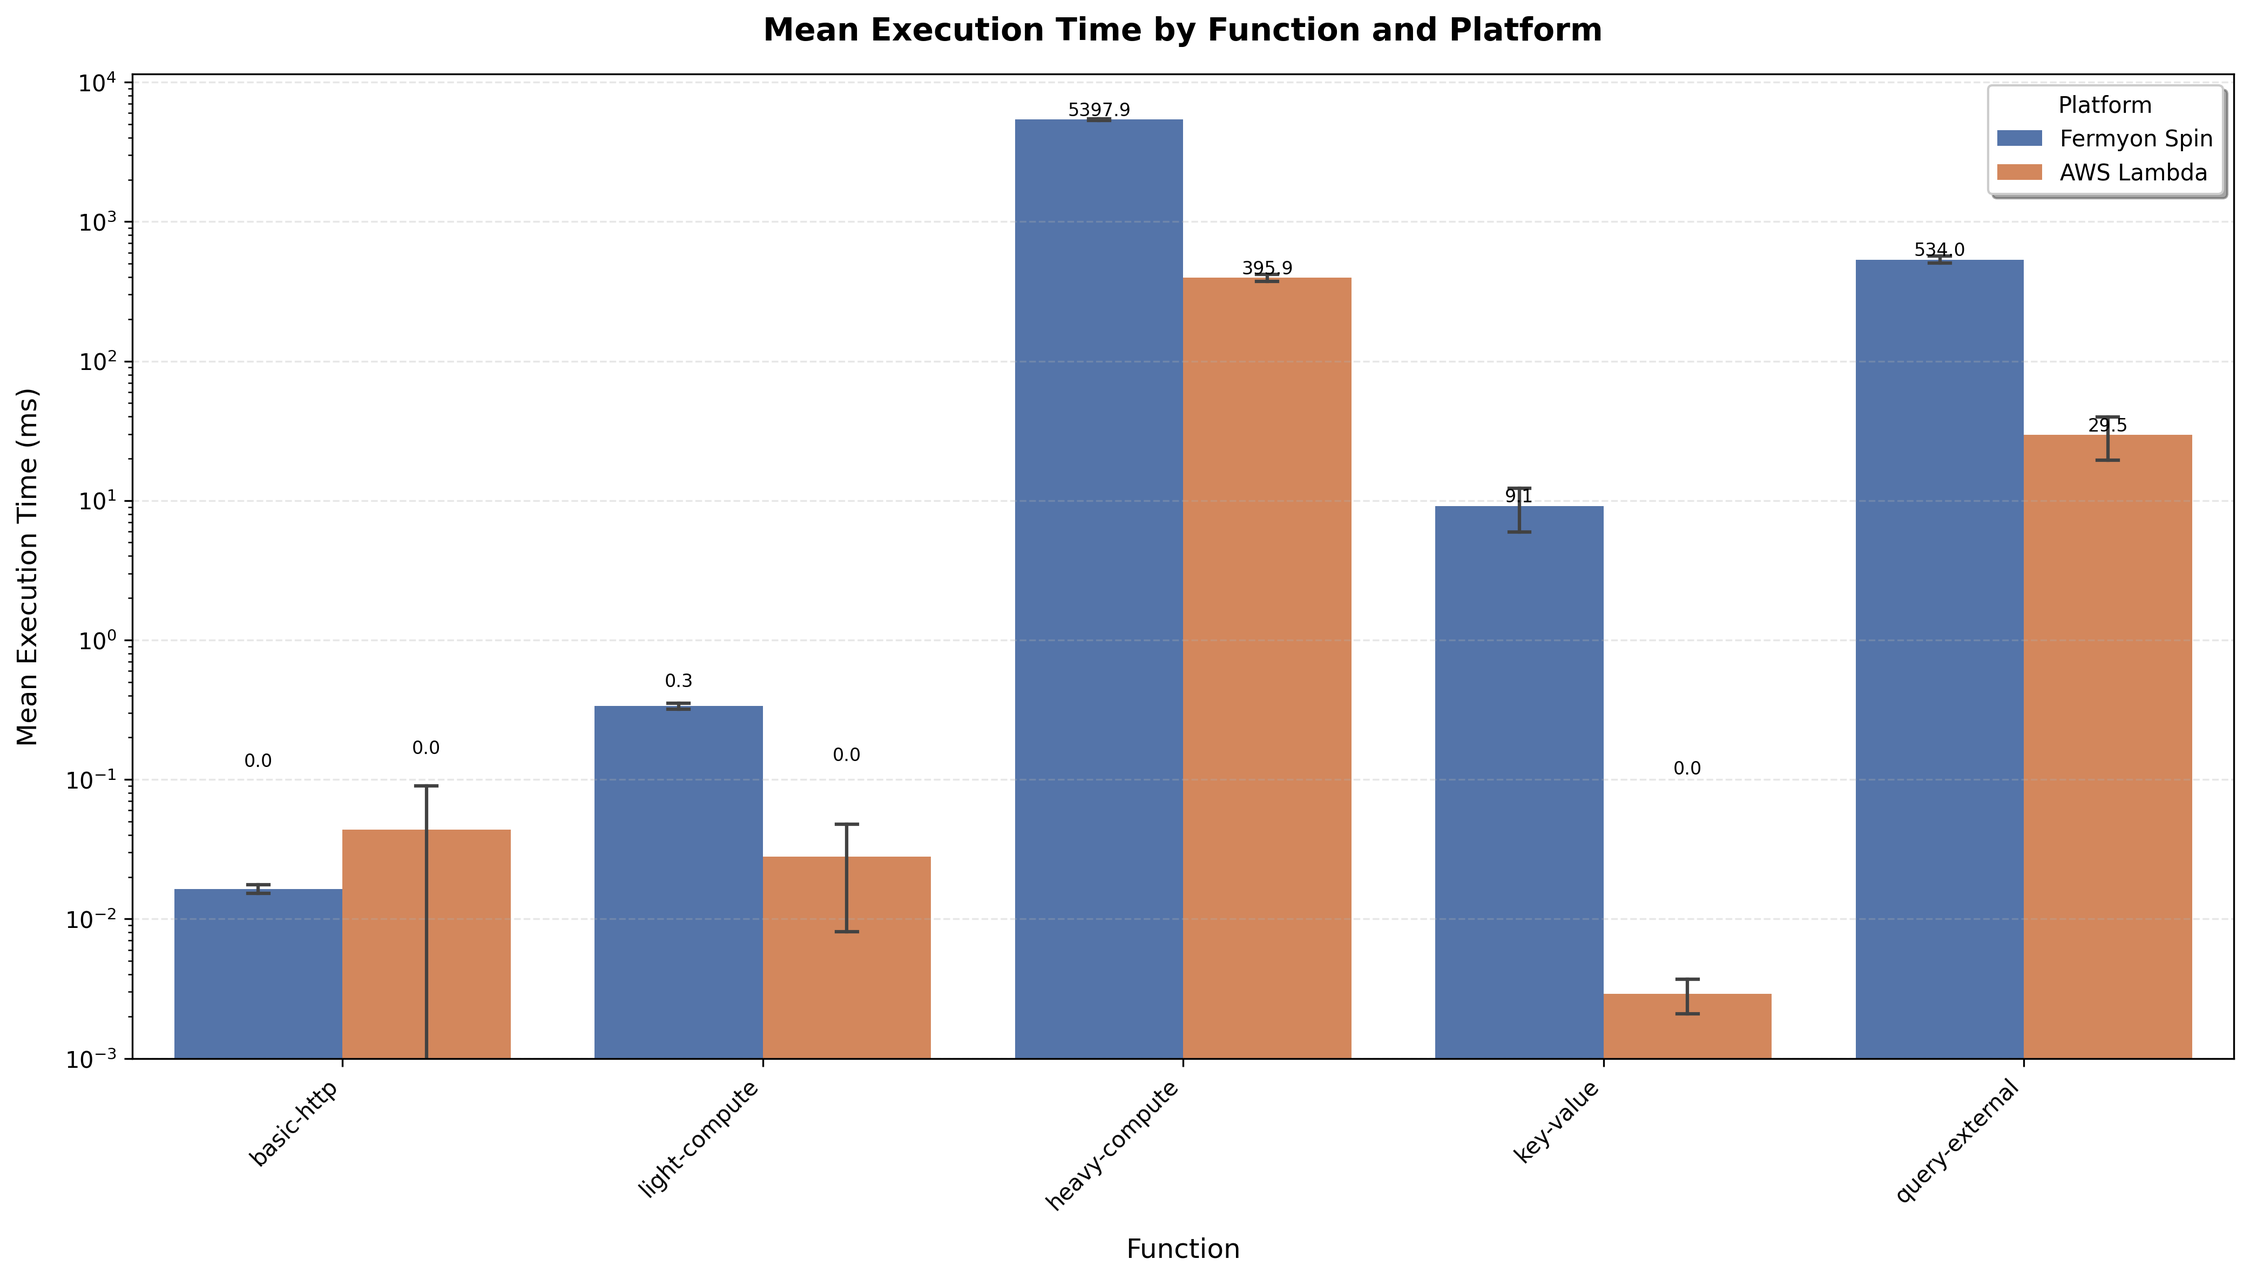
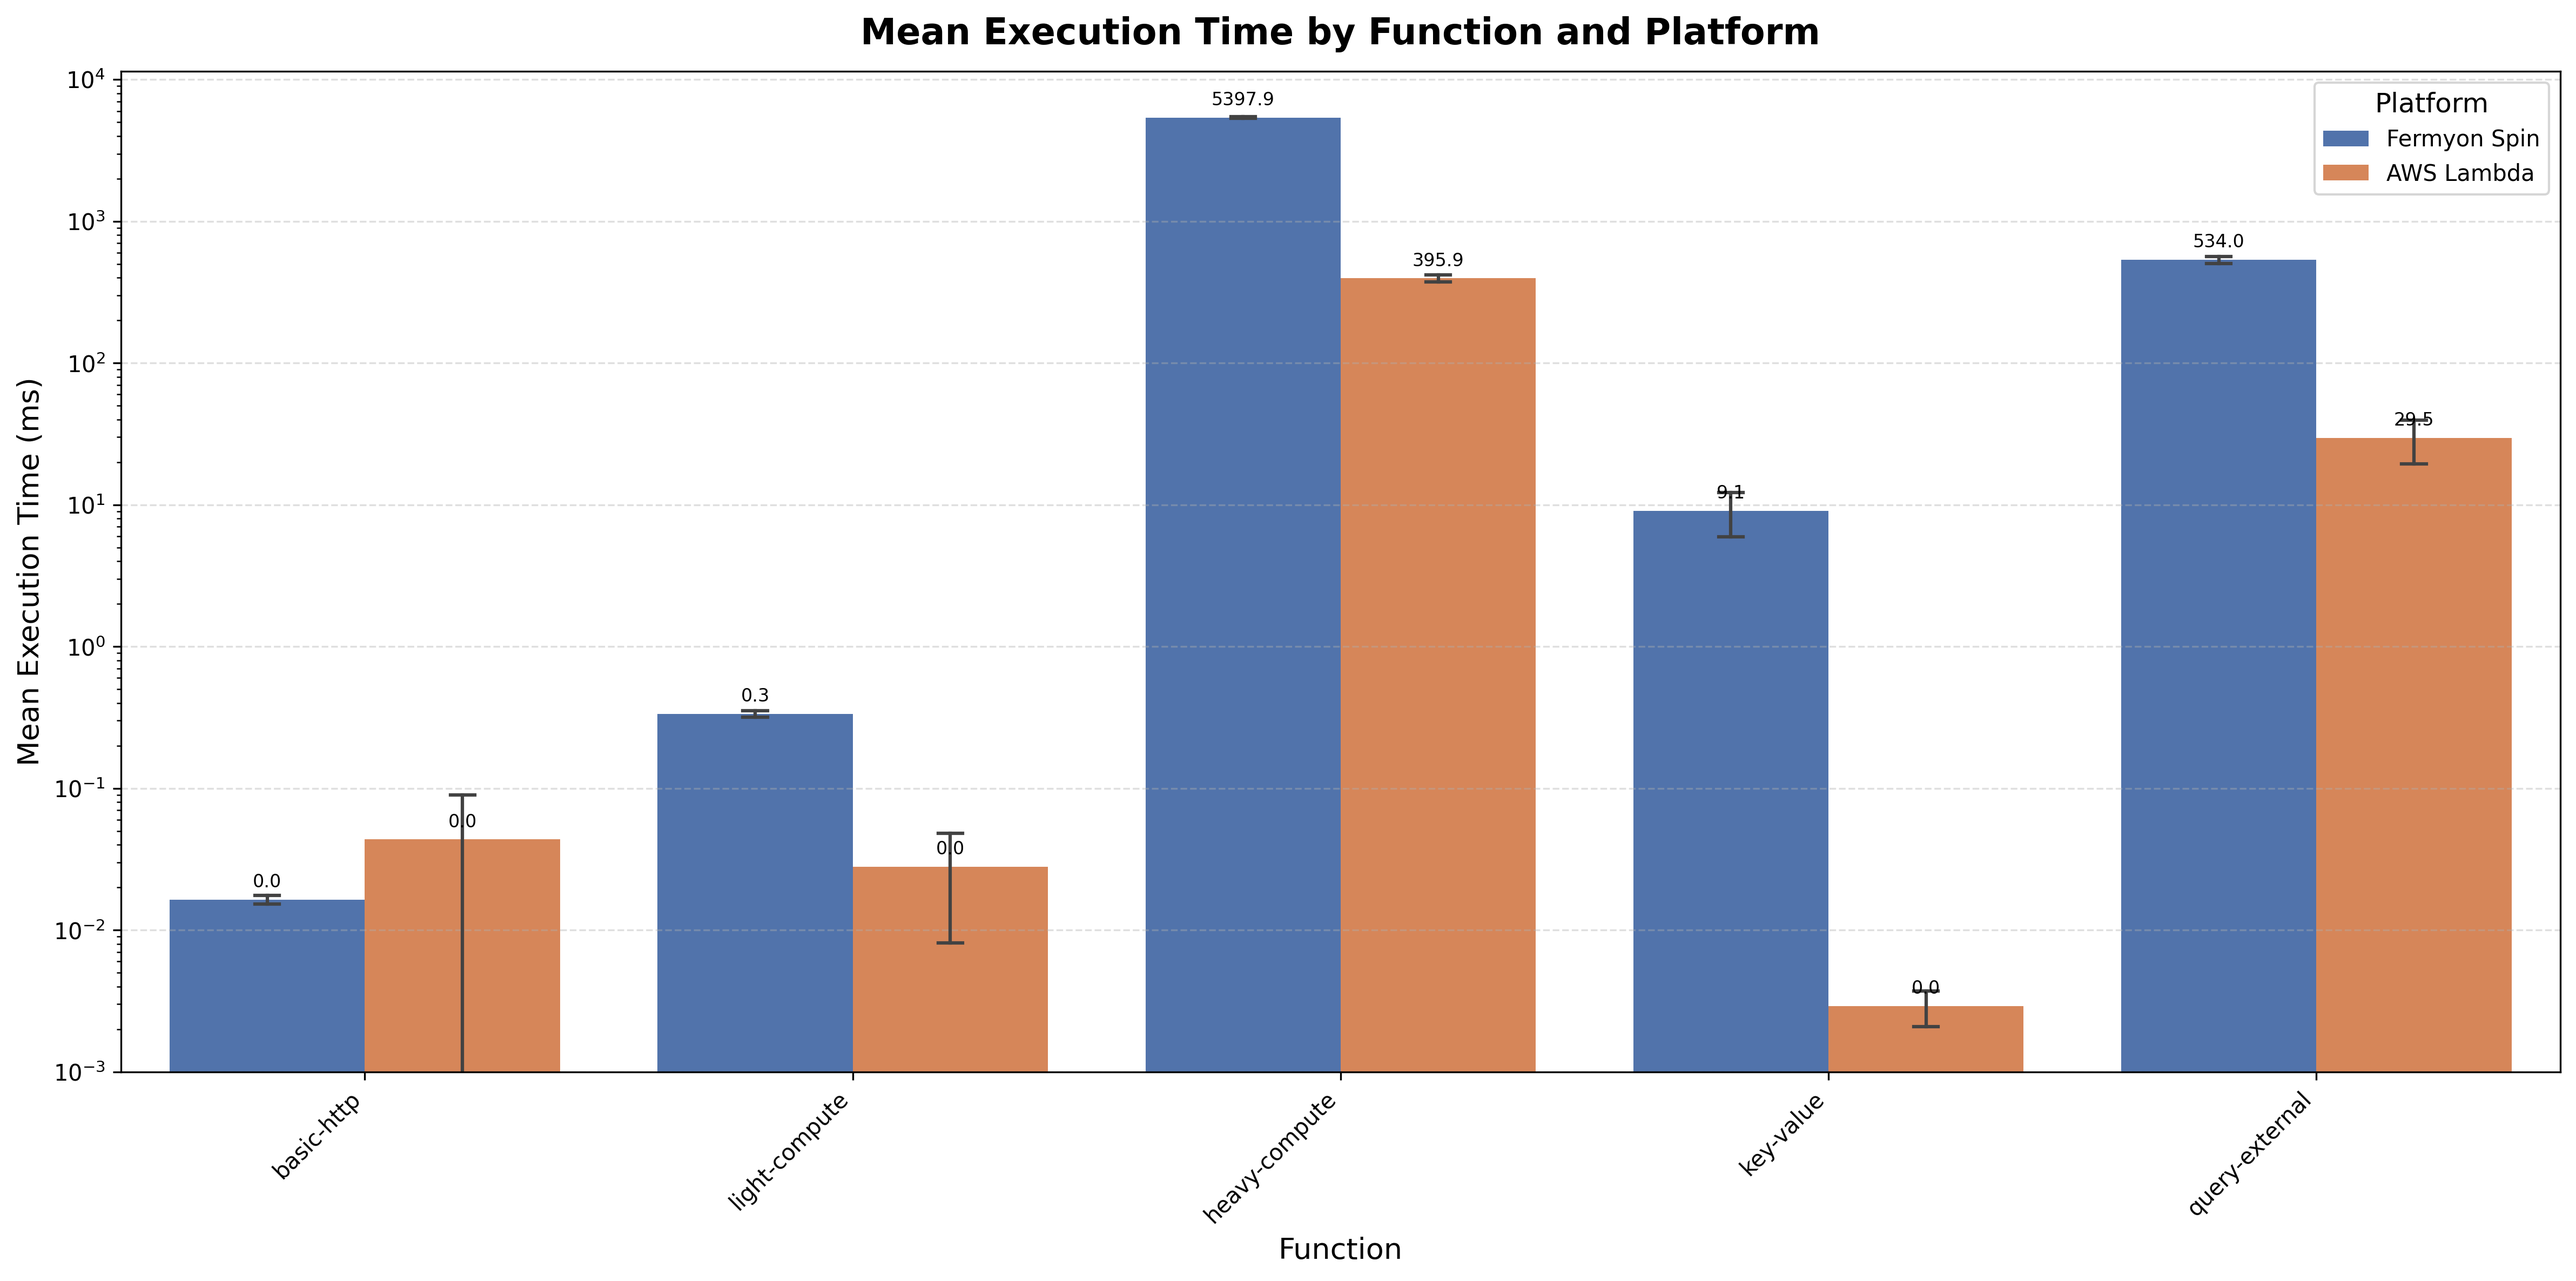
refine barplots and add Mann-Whitney Testiing

diff --git a/scripts/h1_execution_performance.py b/scripts/h1_execution_performance.py
@@ -48,7 +48,7 @@ def analyze_execution_performance(df):
     return df_exec, platform_stats, function_stats
 
 def perform_comparative_analysis(df_exec):
-    """Compare Fermyon vs AWS Lambda performance"""
+    """Compare Fermyon vs AWS Lambda performance using Mann-Whitney U Test"""
     functions = df_exec['name'].unique()
     comparison_results = []
 
@@ -56,10 +56,11 @@ def perform_comparative_analysis(df_exec):
         fermyon_data = df_exec[(df_exec['name'] == func) & (df_exec['platform'] == 'Fermyon Spin')]['execution_ms']
         aws_data = df_exec[(df_exec['name'] == func) & (df_exec['platform'] == 'AWS Lambda')]['execution_ms']
         
-        if len(fermyon_data) > 1 and len(aws_data) > 1:  # Need at least 2 samples for t-test
-            t_stat, p_value = stats.ttest_ind(fermyon_data, aws_data, equal_var=False)
+        if len(fermyon_data) > 1 and len(aws_data) > 1:
+            # Perform Mann-Whitney U Test
+            u_stat, p_value = stats.mannwhitneyu(fermyon_data, aws_data, alternative='two-sided')
         else:
-            t_stat, p_value = np.nan, np.nan
+            u_stat, p_value = np.nan, np.nan
         
         comparison_results.append({
             'function': func,
@@ -72,7 +73,7 @@ def perform_comparative_analysis(df_exec):
             'aws_std': aws_data.std(),
             'fermyon_cv': (fermyon_data.std() / fermyon_data.mean()) * 100 if fermyon_data.mean() != 0 else np.nan,
             'aws_cv': (aws_data.std() / aws_data.mean()) * 100 if aws_data.mean() != 0 else np.nan,
-            't_statistic': t_stat,
+            'u_statistic': u_stat,
             'p_value': p_value,
             'fermyon_faster': fermyon_data.mean() < aws_data.mean()
         })
@@ -115,28 +116,49 @@ def generate_visualizations(df_exec, comparison_df):
     plt.close()
 
     # 2. Function-level Comparison
-    plt.figure(figsize=(14, 8))
-    ax2 = sns.barplot(x='name', y='execution_ms', hue='platform', data=df_exec,
-                     palette=custom_palette, errorbar='sd', errwidth=1.5,
-                     capsize=0.1, saturation=0.85)
-    plt.title('Mean Execution Time by Function and Platform', weight='bold')
-    plt.ylabel('Mean Execution Time (ms)', labelpad=10)
-    plt.xlabel('Function', labelpad=10)
-    plt.xticks(rotation=45, ha='right')
+    plt.figure(figsize=(16, 8))
+    ax2 = sns.barplot(
+        x='name',
+        y='execution_ms',
+        hue='platform',
+        data=df_exec,
+        palette=custom_palette,
+        errorbar='sd',
+        errwidth=1.5,
+        capsize=0.1,
+        saturation=0.9
+    )
+    plt.title('Mean Execution Time by Function and Platform', fontsize=16, weight='bold', pad=12)
+    plt.ylabel('Mean Execution Time (ms)', fontsize=13)
+    plt.xlabel('Function', fontsize=13)
     plt.yscale('log')
-    ax2.grid(axis='y', linestyle='--', alpha=0.3)
-    ax2.legend(title='Platform', frameon=True, shadow=True)
+
+    plt.xticks(rotation=45, ha='right', fontsize=10)
+    plt.yticks(fontsize=10)
+
+    ax2.grid(axis='y', linestyle='--', alpha=0.4)
     
     # Add value labels for clarity
     for p in ax2.patches:
         height = p.get_height()
-        if height > 0:
-            ax2.text(p.get_x() + p.get_width()/2., height + 0.1,
-                    f'{height:.1f}', ha='center', va='bottom', fontsize=8)
-    
+        if height > 0 and not np.isnan(height):
+            ax2.text(
+                p.get_x() + p.get_width() / 2.,
+                height * 1.15,  # slightly above for log scale
+                f'{height:.1f}',
+                ha='center',
+                va='bottom',
+                fontsize=8
+            )
+
+    ax2.legend(title='Platform', title_fontsize=12, fontsize=10, frameon=True, loc='upper right')
+
     plt.tight_layout()
-    plt.savefig(os.path.join(OUTPUT_DIR, "figures", "function_execution_barplot.png"), 
-               dpi=300, bbox_inches='tight')
+    plt.savefig(
+        os.path.join(OUTPUT_DIR, "figures", "function_execution_barplot.png"),
+        dpi=300,
+        bbox_inches='tight'
+    )
     plt.close()
 
     # 3. Coefficient of Variation Comparison
@@ -171,26 +193,47 @@ def generate_visualizations(df_exec, comparison_df):
 
     # 4. Performance Difference Plot
     plt.figure(figsize=(14, 8))
-    ax4 = sns.barplot(x='function', y='mean_difference', data=comparison_df,
-                     palette=["#55A868" if x < 0 else "#C44E52" for x in comparison_df['mean_difference']])
-    plt.axhline(0, color='black', linestyle='--', linewidth=0.8)
+
+    # Filter NaNs to avoid plotting errors
+    clean_df = comparison_df.dropna(subset=['mean_difference'])
+
+    # Define color mapping based on value
+    colors = ["#55A868" if diff < 0 else "#C44E52" for diff in clean_df['mean_difference']]
+
+    ax4 = sns.barplot(
+        x='function',
+        y='mean_difference',
+        data=clean_df,
+        palette=colors
+    )
+
+    plt.axhline(0, color='black', linestyle='--', linewidth=1)
     plt.title('Performance Difference: Fermyon vs AWS Lambda', weight='bold')
     plt.ylabel('Mean Time Difference (ms)\n(Fermyon - AWS)', labelpad=10)
     plt.xlabel('Function', labelpad=10)
     plt.xticks(rotation=45, ha='right')
     ax4.grid(axis='y', linestyle='--', alpha=0.3)
-    
-    # Add value labels
-    for p in ax4.patches:
-        height = p.get_height()
-        if height != 0:
-            ax4.text(p.get_x() + p.get_width()/2., 
-                    height + (5 if height > 0 else -15),
-                    f'{height:.1f}', ha='center', va='center', fontsize=9)
-    
+
+    # Add value labels to bars
+    for bar in ax4.patches:
+        height = bar.get_height()
+        if not np.isnan(height):
+            label_y = height + 2 if height > 0 else height - 6
+            ax4.text(
+                bar.get_x() + bar.get_width() / 2.,
+                label_y,
+                f'{height:.1f}',
+                ha='center',
+                va='bottom' if height > 0 else 'top',
+                fontsize=9
+            )
+
     plt.tight_layout()
-    plt.savefig(os.path.join(OUTPUT_DIR, "figures", "performance_difference_barplot.png"), 
-               dpi=300, bbox_inches='tight')
+    plt.savefig(
+        os.path.join(OUTPUT_DIR, "figures", "performance_difference_barplot.png"),
+        dpi=300,
+        bbox_inches='tight'
+    )
     plt.close()
 
 def generate_report(comparison_df):
